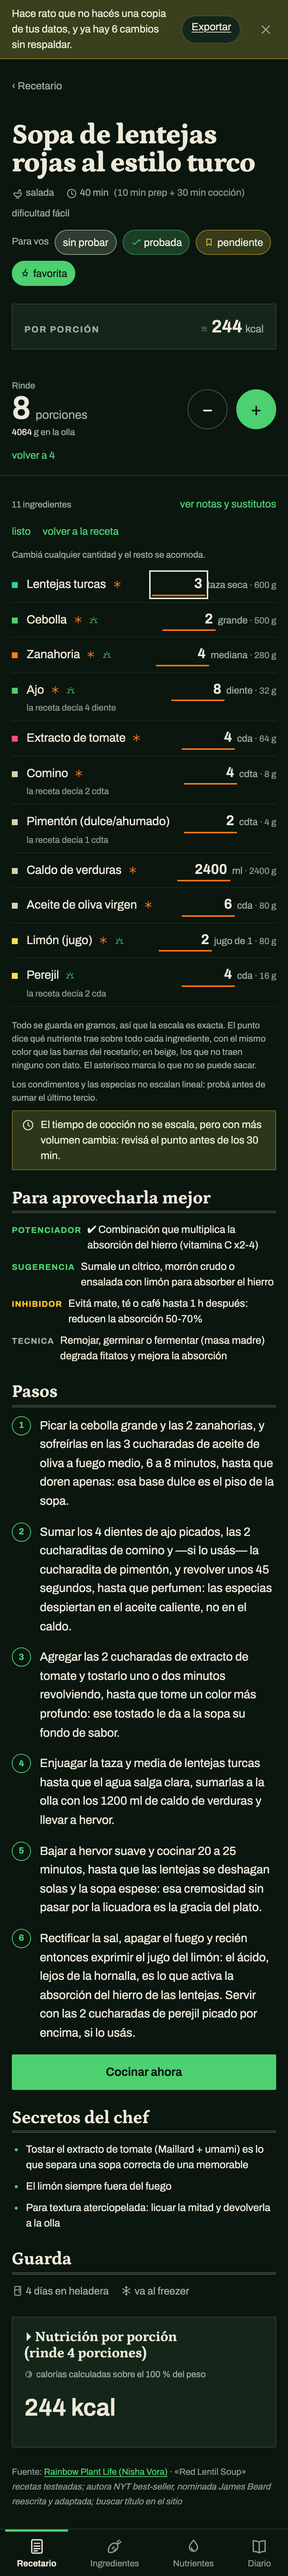
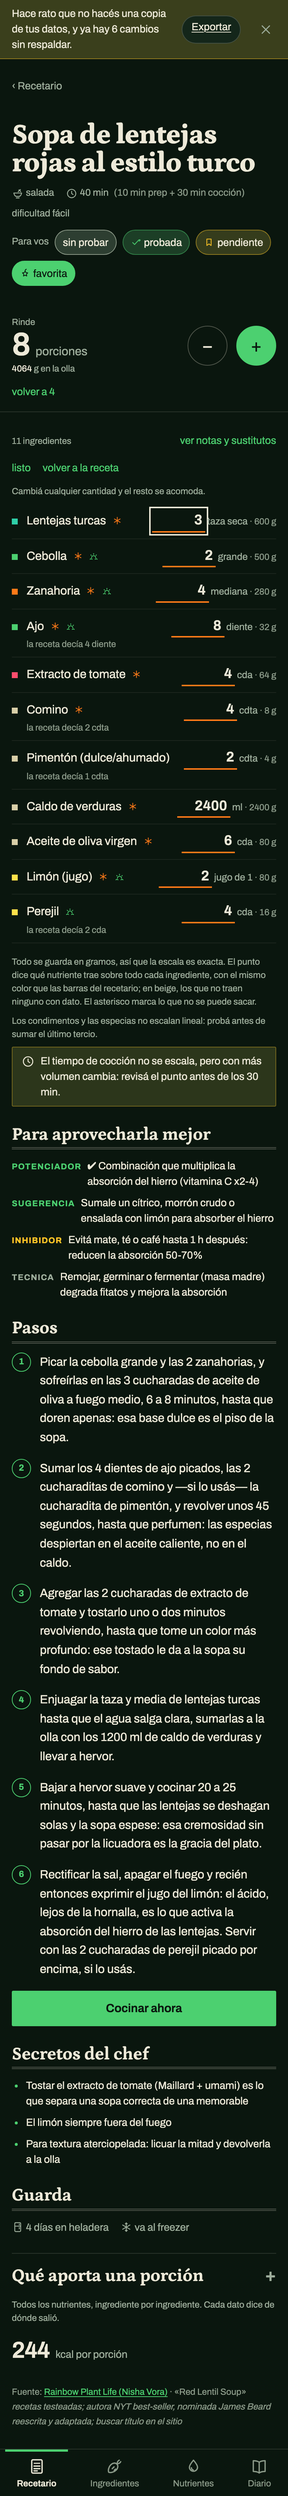
fix(receta): la banda desplegada, solo cuando la hay
Con un dato puntual repetía el valor de la fila. Suma los renders de la
tanda 2 con el panel.

diff --git a/src/ui/recipe-detail/PanelDeAporte.tsx b/src/ui/recipe-detail/PanelDeAporte.tsx
@@ -87,9 +87,12 @@ function FilaDeAporte({
         <div className="fila-aporte-detalle">
           {conDato ? (
             <>
-              <p>
-                <IntervalBand intervalo={resultado.intervalo} unidad={unidad} />
-              </p>
+              {/* Con un dato puntual la banda repetiría el valor de la fila. */}
+              {conBanda(resultado) && (
+                <p>
+                  <IntervalBand intervalo={resultado.intervalo} unidad={unidad} />
+                </p>
+              )}
               {porcentaje === null && (
                 <p>Sin porcentaje: el rango arranca en cero, y un punto medio así diría de más.</p>
               )}
